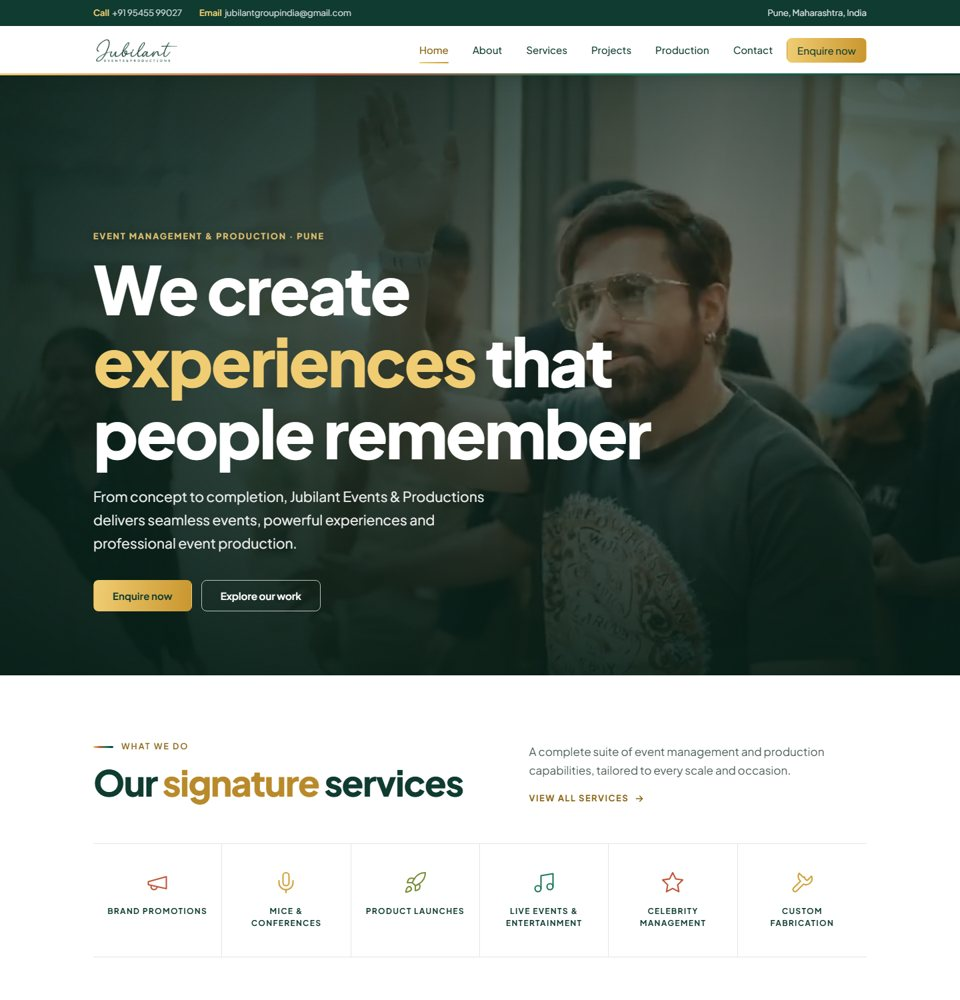
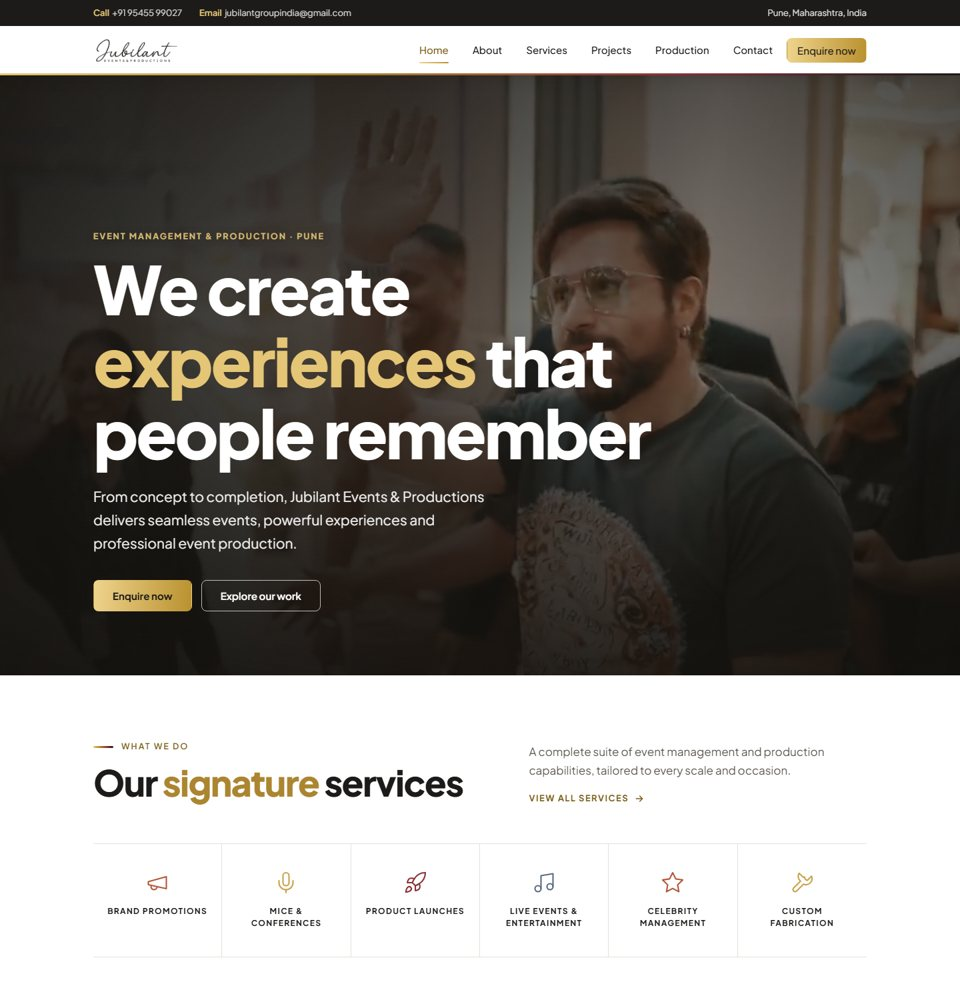
Structure options: second Boardroom palette changed from green to charcoal and antique gold (option L Boardroom Gold)

diff --git a/structure-options/index.html b/structure-options/index.html
@@ -13,6 +13,6 @@ h2{font-size:26px;margin:6px 0 8px}p{color:#555;font-size:15px}.lk{display:flex;
 <p class="sub">Same section order and page structure in every option, filled with the real Jubilant content and photos. K and L are the same Boardroom design in two colour palettes; M is the Editorial design. Open any option and use its menu to browse all six pages.</p>
 <div class="grid">
 <article><a class="th" href="k-boardroom/index.html"><img src="img/k-home.jpg" alt="Option K Boardroom Navy home page"></a><div><span class="tag">Option K</span><h2>Boardroom Navy</h2><p>White and navy with coral-to-saffron gradient buttons (the Shaahi palette). Top contact bar, square-edged cards, same-size photo cards.</p><div class="lk"><a href="k-boardroom/index.html">Home</a> <a href="k-boardroom/about.html">About</a> <a href="k-boardroom/services.html">Services</a> <a href="k-boardroom/projects.html">Projects</a> <a href="k-boardroom/production.html">Production</a> <a href="k-boardroom/contact.html">Contact</a></div></div></article>
-<article><a class="th" href="l-emerald/index.html"><img src="img/l-home.jpg" alt="Option L Boardroom Emerald home page"></a><div><span class="tag">Option L</span><h2>Boardroom Emerald</h2><p>The same design as K in a different palette: deep emerald and gold with terracotta accents.</p><div class="lk"><a href="l-emerald/index.html">Home</a> <a href="l-emerald/about.html">About</a> <a href="l-emerald/services.html">Services</a> <a href="l-emerald/projects.html">Projects</a> <a href="l-emerald/production.html">Production</a> <a href="l-emerald/contact.html">Contact</a></div></div></article>
+<article><a class="th" href="l-gold/index.html"><img src="img/l-home.jpg" alt="Option L Boardroom Gold home page"></a><div><span class="tag">Option L</span><h2>Boardroom Gold</h2><p>The same design as K in a different palette: charcoal and antique gold with copper and burgundy accents.</p><div class="lk"><a href="l-gold/index.html">Home</a> <a href="l-gold/about.html">About</a> <a href="l-gold/services.html">Services</a> <a href="l-gold/projects.html">Projects</a> <a href="l-gold/production.html">Production</a> <a href="l-gold/contact.html">Contact</a></div></div></article>
 <article><a class="th" href="m-editorial/index.html"><img src="img/m-home.jpg" alt="Option M Editorial home page"></a><div><span class="tag">Option M</span><h2>Editorial</h2><p>White and navy with coral and saffron accents. Serif headlines, a centred masthead menu and framed photos.</p><div class="lk"><a href="m-editorial/index.html">Home</a> <a href="m-editorial/about.html">About</a> <a href="m-editorial/services.html">Services</a> <a href="m-editorial/projects.html">Projects</a> <a href="m-editorial/production.html">Production</a> <a href="m-editorial/contact.html">Contact</a></div></div></article>
 </div></div></body></html>

diff --git a/structure-options/l-gold/theme.css b/structure-options/l-gold/theme.css
@@ -1,0 +1,19 @@
+/* Option L - Boardroom Gold: the same design as K in a different palette (charcoal, antique gold, copper, burgundy; no green). Layout rules: ../boardroom.css */
+:root{
+  --disp:'Plus Jakarta Sans','Segoe UI',sans-serif;--body:'Plus Jakarta Sans','Segoe UI',sans-serif;
+  --bg:#ffffff;--card:#ffffff;
+  --on-dark:#ffffff;--on-dark2:rgba(255,255,255,.74);--line-d:rgba(255,255,255,.16);--card-d:rgba(255,255,255,.06);
+  --acc:var(--hi-text);--on-acc:#fff;--btn-bg:var(--grad-cta);--btn-fg:var(--dark);
+  --r:10px;--rbtn:8px;--rpill:8px;--hw:800;--hls:-.03em;
+  --hero-shade:linear-gradient(97deg,rgba(var(--shade),.92) 0%,rgba(var(--shade),.7) 40%,rgba(var(--shade),.35) 70%,rgba(var(--shade),.6) 100%),linear-gradient(180deg,rgba(var(--shade),.5) 0%,rgba(var(--shade),.1) 40%,rgba(var(--shade),.85) 100%);
+  --hero-pt:96px;--menu-bg:#fff;--foot-fg:rgba(255,255,255,.78);
+  /* palette */
+  --hi:#ab8530;--hi-text:#7a5d17;--lite:#e5c677;--sec1:#8c2f39;--sec2:#b4583a;
+  --t1:#b4583a;--t2:#c9a24b;--t3:#5b6b7f;--t4:#8c2f39;
+  --dark:#1c1b19;--dark2:#34312b;--shade:20,18,15;--tint-hi:#f7efd9;
+  --tint:#f6f4f0;--ink:#1c1b19;--ink2:#5a554d;--mute:#6d675e;--line:#e6e1d8;
+  --grad-brand:linear-gradient(90deg,#e5c677 0%,#ab8530 35%,#8c2f39 70%,#1c1b19 100%);
+  --grad-cta:linear-gradient(96deg,#efd48d 0%,#b9912f 100%);
+  --btn-shadow:0 12px 28px -10px rgba(185,145,47,.6);--shadow:0 24px 50px -28px rgba(28,27,25,.45);
+  --foot-bg:#121110;--foot-h:#e5c677;
+}

diff --git a/structure-options/l-gold/about.html b/structure-options/l-gold/about.html
@@ -11,7 +11,7 @@
 <link rel="stylesheet" href="theme.css">
 </head>
 <body class="t-l">
-<svg width="0" height="0" style="position:absolute" aria-hidden="true"><filter id="brand-logo" color-interpolation-filters="sRGB"><feColorMatrix type="matrix" values="0 0 0 0 0.0588  0 0 0 0 0.2314  0 0 0 0 0.1882  0 0 0 1 0"/></filter></svg>
+<svg width="0" height="0" style="position:absolute" aria-hidden="true"><filter id="brand-logo" color-interpolation-filters="sRGB"><feColorMatrix type="matrix" values="0 0 0 0 0.1098  0 0 0 0 0.1059  0 0 0 0 0.0980  0 0 0 1 0"/></filter></svg>
 <a class="sr" href="#main" style="position:absolute;left:-9999px">Skip to main content</a>
 <div class="topbar"><div class="wrap">
   <div class="l"><span><b>Call</b> &nbsp;<a href="tel:+919545599027">+91 95455 99027</a></span><span><b>Email</b> &nbsp;<a href="mailto:jubilantgroupindia@gmail.com">jubilantgroupindia@gmail.com</a></span></div>

diff --git a/structure-options/l-gold/contact.html b/structure-options/l-gold/contact.html
@@ -11,7 +11,7 @@
 <link rel="stylesheet" href="theme.css">
 </head>
 <body class="t-l">
-<svg width="0" height="0" style="position:absolute" aria-hidden="true"><filter id="brand-logo" color-interpolation-filters="sRGB"><feColorMatrix type="matrix" values="0 0 0 0 0.0588  0 0 0 0 0.2314  0 0 0 0 0.1882  0 0 0 1 0"/></filter></svg>
+<svg width="0" height="0" style="position:absolute" aria-hidden="true"><filter id="brand-logo" color-interpolation-filters="sRGB"><feColorMatrix type="matrix" values="0 0 0 0 0.1098  0 0 0 0 0.1059  0 0 0 0 0.0980  0 0 0 1 0"/></filter></svg>
 <a class="sr" href="#main" style="position:absolute;left:-9999px">Skip to main content</a>
 <div class="topbar"><div class="wrap">
   <div class="l"><span><b>Call</b> &nbsp;<a href="tel:+919545599027">+91 95455 99027</a></span><span><b>Email</b> &nbsp;<a href="mailto:jubilantgroupindia@gmail.com">jubilantgroupindia@gmail.com</a></span></div>

diff --git a/structure-options/l-gold/index.html b/structure-options/l-gold/index.html
@@ -11,7 +11,7 @@
 <link rel="stylesheet" href="theme.css">
 </head>
 <body class="t-l">
-<svg width="0" height="0" style="position:absolute" aria-hidden="true"><filter id="brand-logo" color-interpolation-filters="sRGB"><feColorMatrix type="matrix" values="0 0 0 0 0.0588  0 0 0 0 0.2314  0 0 0 0 0.1882  0 0 0 1 0"/></filter></svg>
+<svg width="0" height="0" style="position:absolute" aria-hidden="true"><filter id="brand-logo" color-interpolation-filters="sRGB"><feColorMatrix type="matrix" values="0 0 0 0 0.1098  0 0 0 0 0.1059  0 0 0 0 0.0980  0 0 0 1 0"/></filter></svg>
 <a class="sr" href="#main" style="position:absolute;left:-9999px">Skip to main content</a>
 <div class="topbar"><div class="wrap">
   <div class="l"><span><b>Call</b> &nbsp;<a href="tel:+919545599027">+91 95455 99027</a></span><span><b>Email</b> &nbsp;<a href="mailto:jubilantgroupindia@gmail.com">jubilantgroupindia@gmail.com</a></span></div>

diff --git a/structure-options/l-gold/production.html b/structure-options/l-gold/production.html
@@ -11,7 +11,7 @@
 <link rel="stylesheet" href="theme.css">
 </head>
 <body class="t-l">
-<svg width="0" height="0" style="position:absolute" aria-hidden="true"><filter id="brand-logo" color-interpolation-filters="sRGB"><feColorMatrix type="matrix" values="0 0 0 0 0.0588  0 0 0 0 0.2314  0 0 0 0 0.1882  0 0 0 1 0"/></filter></svg>
+<svg width="0" height="0" style="position:absolute" aria-hidden="true"><filter id="brand-logo" color-interpolation-filters="sRGB"><feColorMatrix type="matrix" values="0 0 0 0 0.1098  0 0 0 0 0.1059  0 0 0 0 0.0980  0 0 0 1 0"/></filter></svg>
 <a class="sr" href="#main" style="position:absolute;left:-9999px">Skip to main content</a>
 <div class="topbar"><div class="wrap">
   <div class="l"><span><b>Call</b> &nbsp;<a href="tel:+919545599027">+91 95455 99027</a></span><span><b>Email</b> &nbsp;<a href="mailto:jubilantgroupindia@gmail.com">jubilantgroupindia@gmail.com</a></span></div>

diff --git a/structure-options/l-gold/projects.html b/structure-options/l-gold/projects.html
@@ -11,7 +11,7 @@
 <link rel="stylesheet" href="theme.css">
 </head>
 <body class="t-l">
-<svg width="0" height="0" style="position:absolute" aria-hidden="true"><filter id="brand-logo" color-interpolation-filters="sRGB"><feColorMatrix type="matrix" values="0 0 0 0 0.0588  0 0 0 0 0.2314  0 0 0 0 0.1882  0 0 0 1 0"/></filter></svg>
+<svg width="0" height="0" style="position:absolute" aria-hidden="true"><filter id="brand-logo" color-interpolation-filters="sRGB"><feColorMatrix type="matrix" values="0 0 0 0 0.1098  0 0 0 0 0.1059  0 0 0 0 0.0980  0 0 0 1 0"/></filter></svg>
 <a class="sr" href="#main" style="position:absolute;left:-9999px">Skip to main content</a>
 <div class="topbar"><div class="wrap">
   <div class="l"><span><b>Call</b> &nbsp;<a href="tel:+919545599027">+91 95455 99027</a></span><span><b>Email</b> &nbsp;<a href="mailto:jubilantgroupindia@gmail.com">jubilantgroupindia@gmail.com</a></span></div>

diff --git a/structure-options/l-gold/services.html b/structure-options/l-gold/services.html
@@ -11,7 +11,7 @@
 <link rel="stylesheet" href="theme.css">
 </head>
 <body class="t-l">
-<svg width="0" height="0" style="position:absolute" aria-hidden="true"><filter id="brand-logo" color-interpolation-filters="sRGB"><feColorMatrix type="matrix" values="0 0 0 0 0.0588  0 0 0 0 0.2314  0 0 0 0 0.1882  0 0 0 1 0"/></filter></svg>
+<svg width="0" height="0" style="position:absolute" aria-hidden="true"><filter id="brand-logo" color-interpolation-filters="sRGB"><feColorMatrix type="matrix" values="0 0 0 0 0.1098  0 0 0 0 0.1059  0 0 0 0 0.0980  0 0 0 1 0"/></filter></svg>
 <a class="sr" href="#main" style="position:absolute;left:-9999px">Skip to main content</a>
 <div class="topbar"><div class="wrap">
   <div class="l"><span><b>Call</b> &nbsp;<a href="tel:+919545599027">+91 95455 99027</a></span><span><b>Email</b> &nbsp;<a href="mailto:jubilantgroupindia@gmail.com">jubilantgroupindia@gmail.com</a></span></div>

diff --git a/structure-options/boardroom.css b/structure-options/boardroom.css
@@ -1,4 +1,4 @@
-/* Boardroom layout rules shared by options K (Navy) and L (Emerald). Colours come from each theme.css. */
+/* Boardroom layout rules shared by options K (Navy) and L (Gold). Colours come from each theme.css. */
 .s-d{--acc:var(--lite)}
 .topbar{background:var(--dark);color:rgba(255,255,255,.85)}
 .topbar b{color:var(--lite);font-weight:600}
